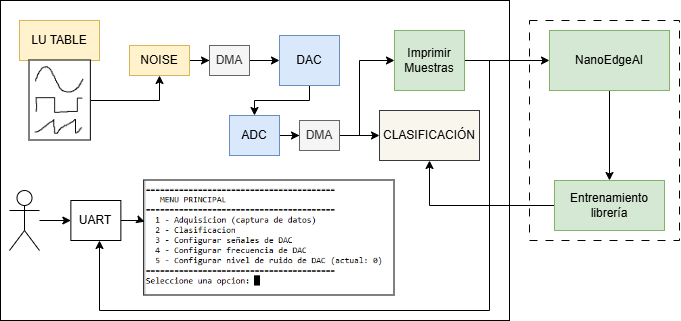
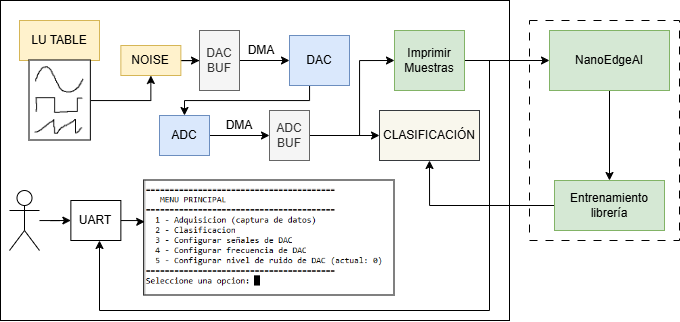
modificar informe

diff --git a/informe/informe.tex b/informe/informe.tex
@@ -42,8 +42,12 @@
 
 Este informe describe el desarrollo de un sistema embebido capaz de generar, adquirir y clasificar señales en tiempo real utilizando una placa STM32 NUCLEO-U575ZI-Q. El proyecto combina técnicas de procesamiento digital de señales, sistemas operativos de tiempo real y aprendizaje automático embebido mediante NanoEdge AI Studio. El objetivo principal es identificar automáticamente diferentes formas de onda generadas por el propio sistema utilizando un modelo de clasificación ejecutado localmente en el microcontrolador. 
 
-El codigo es abierto y está disponible en \url{https://github.com/ushikawa93/signal_ classifier_with_rtos_stm32}.
+El codigo es abierto y está disponible en:
 
+\begin{itemize}
+	\item \url{https://github.com/ushikawa93/signal_classifier_with_rtos_stm32}.
+\end{itemize}
+ 
 \section{Objetivos}
 
 \begin{itemize}
@@ -155,7 +159,7 @@ A medida que se llena el buffer del ADC se disparan dos interrupciones que le av
 \item \textbf{Complete}. Las segundas 128 muestras del buffer están disponibles.
 \end{itemize}
 
-En esta etapa del desarrollo de este proyecto el procesamiento de los datos consiste en imprimir, si el usuario pidió datos desde la UART, los bloques correspondientes a través del puerto serie.
+En esta etapa del desarrollo del proyecto el procesamiento de los datos consiste simplemente en imprimir cierta cantidad de bloques a través del puerto UART cuando el usuario lo solicita.
 
 
 \section{Dataset para Entrenamiento}
@@ -181,7 +185,7 @@ Cuando el usuario lo pide se imprimen por puerto UART muestras en este formato. 
 
 \section{Entrenamiento con NanoEdge AI Studio}
 
-Utilizando la plataforma se adquirieron señales de distintas frecuencias, sinusoidales, ondas cuadradas y triangulares que fueron utilizadas para entrenar un modelo de clasificación en NanoEdge AI Studio. Para adaptar las señales al formato csv requerido por el software se utilizaron scripts disponibles en la carpeta \texttt{/utils} del proyecto. En esta carpeta también hay disponible un script de matlab para graficar segmentos de las señales obtenidas y verificar su integridad.
+Utilizando la plataforma se adquirieron señales de distintas frecuencias, sinusoidales, ondas cuadradas y triangulares, que fueron utilizadas para entrenar un modelo de clasificación en NanoEdge AI Studio. Para adaptar las señales al formato csv requerido por el software se utilizaron scripts disponibles en la carpeta \texttt{/utils} del proyecto. En esta carpeta también hay disponible un script de matlab para graficar segmentos de las señales obtenidas y verificar su integridad.
 
 \begin{itemize}
 	\item \textbf{Dataset utilizado:} Los datos específicos que se utilizaron para entrenar el modelo se encuentran en la carpeta \texttt{nanoEdgeAI/dat}.
@@ -206,7 +210,7 @@ Utilizando la plataforma se adquirieron señales de distintas frecuencias, sinus
 
 El modelo generado fue integrado al firmware mediante las bibliotecas proporcionadas por NanoEdge AI Studio.
 
-El modelo se inicializa antes de lanzar las tareas, mediante la función \texttt{neai\_ classification\_init()} provista en la librería.
+El modelo se inicializa antes de lanzar las tareas, mediante la función \texttt{neai\_classification\_ init()} provista en la librería.
 
 Luego, dentro de la tarea que controla el UART en la librería, se agregó la clasificación de señales. En este punto, cuando es requerido por el usuario se utiliza la función \texttt{neai\_ classification()}, pasandole el contenido del buffer proveniente del ADC que este completo en ese momento (puede ser la primera o la segunda mitad del ADC\_BUF). Antes de utilizarse directamente las muestras se convierten de entero a punto flotante, por requerimientos de la librería.
 
@@ -234,7 +238,11 @@ Usando este esquema el sistema decide entre alguna de las tres ondas lo que esta
 
 \section{Migración a FreeRTOS}
 
-Inicialmente el sistema fue desarrollado utilizando una arquitectura secuencial, con modos configurados a través de \texttt{\#defines}. Esta implementación preliminar está disponible en \url{https://github.com/ushikawa93/signal_classifier_stm32}.
+Inicialmente el sistema fue desarrollado utilizando una arquitectura secuencial, con modos configurados a través de \texttt{\#defines}. Esta implementación preliminar está disponible en: 
+
+\begin{itemize}
+	\item \url{https://github.com/ushikawa93/signal_classifier_stm32}
+\end{itemize}
 
 Posteriormente se migró a FreeRTOS para mejorar la organización del software y desacoplar las distintas funcionalidades.
 
@@ -344,7 +352,7 @@ En la versión actual el sistema permite generar adquirir y clasificar señales 
 \item Mejorar el método de agregado de ruido del sistema.
 \item Incorporar señales externas.
 \item Agregar nuevas clases a la clasificación.
-\item Investigar la causa de la baja robustez de la clase OndaCuadrada ante niveles de ruido elevados. En este sentido puede considerarse reentrenar el sistema con datos ruidosos.
+\item Investigar la causa de la baja robustez de la clase \textit{OndaCuadrada} ante niveles de ruido elevados. En este sentido puede considerarse reentrenar el sistema con datos ruidosos.
 \item Entrenar un algoritmo de detección de anomalías en las señales.
 \item Probar el sistema con datos reales de sensores.
 \item Optimizar el consumo de RAM y Flash de la librería generada, evaluando el trade-off entre tamaño del modelo y exactitud.